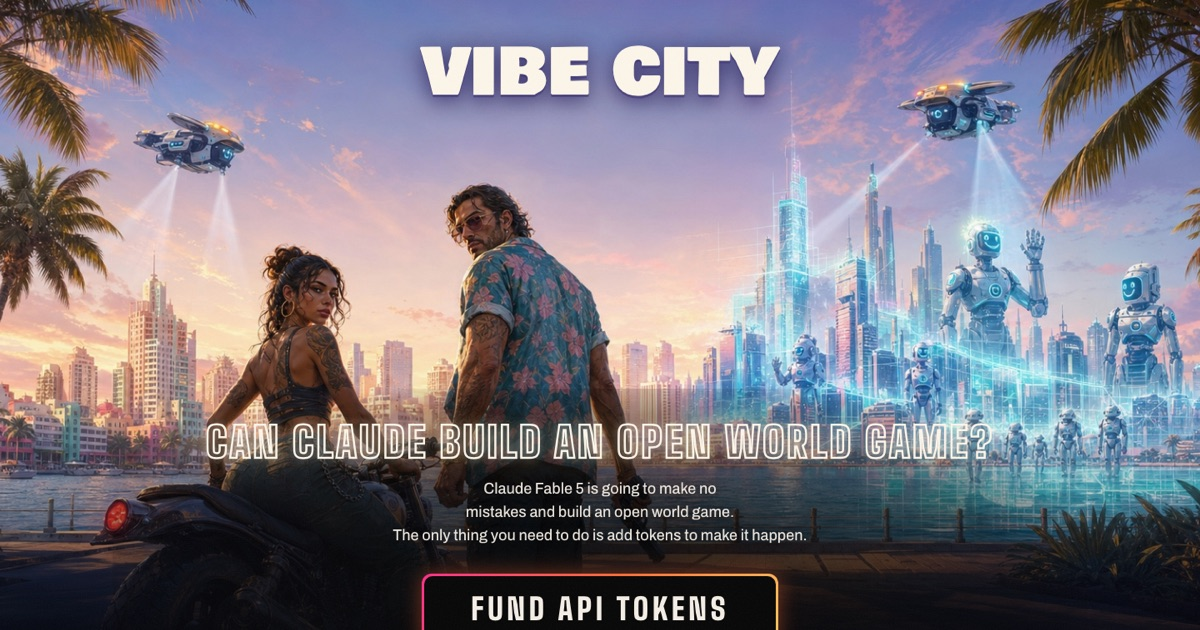
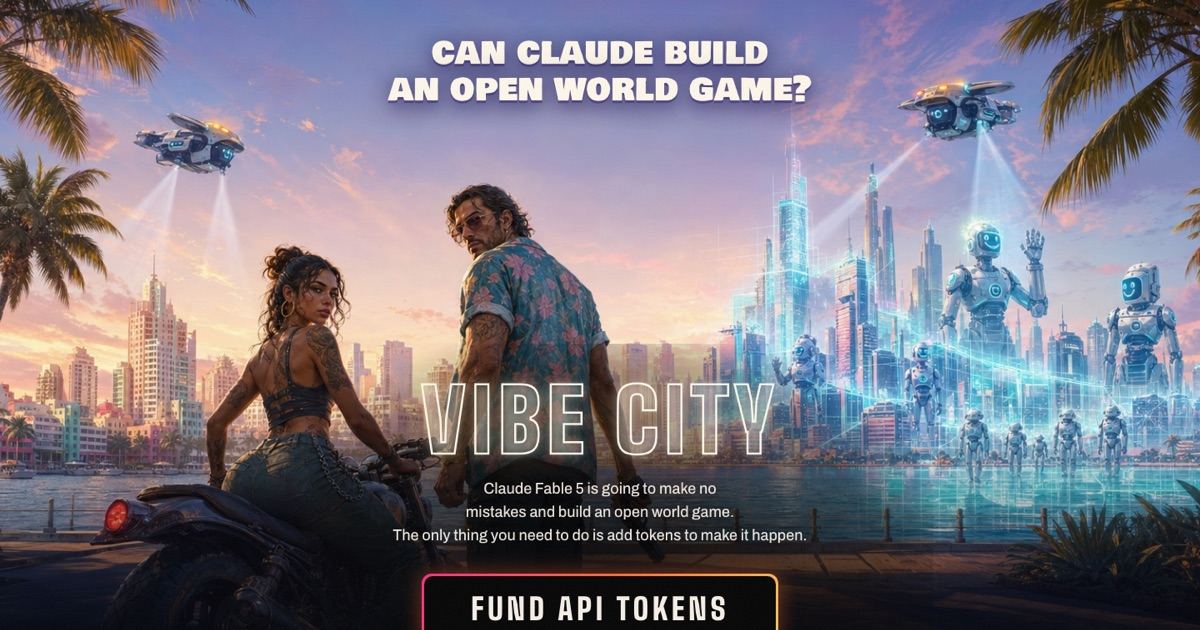
Swap hero text: question on top, outlined VIBE CITY as the title mark

Changed region(s): [[0.1542, 0.5429, 0.8633, 0.9048], [0.3083, 0.0603, 0.6783, 0.181]]

diff --git a/src/components/Hero.tsx b/src/components/Hero.tsx
@@ -17,8 +17,9 @@ export function Hero() {
 
       {/* stacked key-art logo */}
       <div className="relative z-10 px-4 pt-14 sm:pt-16">
-        <h1 className="logo-stack font-logo lowercase leading-[1]">
-          <span className="block text-[13vw] sm:text-[5.5rem]">vibe city</span>
+        <h1 className="logo-stack font-logo lowercase leading-[1.05]">
+          <span className="block text-[6vw] sm:text-[2.6rem]">can claude build</span>
+          <span className="block text-[6vw] sm:text-[2.6rem]">an open world game?</span>
         </h1>
       </div>
 
@@ -32,8 +33,8 @@ export function Hero() {
               "radial-gradient(ellipse 70% 85% at 50% 60%, rgba(5,5,5,0.85), rgba(5,5,5,0.4) 60%, transparent 78%)",
           }}
         />
-        <p className="outline-mark font-display text-[5.4vw] font-black uppercase tracking-[0.02em] leading-none sm:text-[3.1rem] sm:tracking-[0.06em]">
-          Can Claude build an open world game?
+        <p className="outline-mark font-display text-[11vw] font-black uppercase tracking-[0.02em] leading-none sm:text-[6.5rem] sm:tracking-[0.06em]">
+          Vibe City
         </p>
         <p className="mx-auto mt-4 max-w-xl text-balance text-base font-medium text-cream/95 [text-shadow:0_1px_12px_rgba(5,5,5,0.8)] sm:text-lg">
           Claude Fable 5 is going to make no mistakes and build an open world